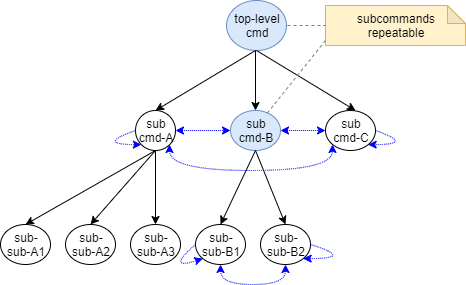
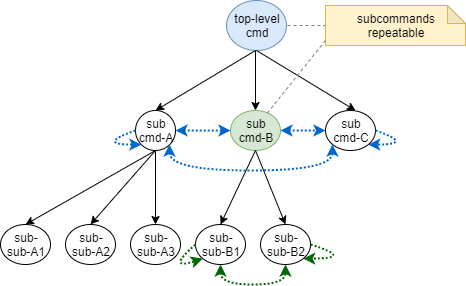
[#454] DOC improved diagram colors

diff --git a/RELEASE-NOTES.md b/RELEASE-NOTES.md
@@ -23,7 +23,7 @@ Picocli follows [semantic versioning](http://semver.org/).
 * [New and noteworthy](#4.2.0-new)
   * [Repeatable Subcommands](#4.2.0-repeatable-subcommands)
   * [Inject `CommandSpec` into a `IVersionProvider`](#4.2.0-versionprovider-with-spec)
-  * [Lazily instantiate subcommands](#4.2.0-lazy-instantiation)
+  * [Subcommands are now lazily instantiated](#4.2.0-lazy-instantiation)
   * [Mixins with `@ParentCommand`-annotated fields](#4.2.0-mixins)
   * [Showing `@filename` in usage help](#4.2.0-atfiles-usage)
 * [Fixed issues](#4.2.0-fixes)
@@ -74,7 +74,7 @@ This invocation is valid because `myapp` is marked with `subcommandsRepeatable =
 #### Repeatable Subcommands Specification
 
 Normally, `subcommandsRepeatable` is `false`, so for each command, only one of its subcommands can be specified, potentially followed by only one sub-subcommand of that subcommand, etc.
-In mathematical terms, a valid sequence of commands and subcommands can be represented by a _directed rooted tree_ that starts at the top-level command, illustrated by the diagram below.
+In mathematical terms, a valid sequence of commands and subcommands can be represented by a _directed rooted tree_ that starts at the top-level command. This is illustrated by the diagram below.
 
 ![subcommands not repeatable](https://picocli.info/images/subcommands-non-repeatable.png)
 
@@ -83,7 +83,7 @@ Also, a subcommand can be followed by a "sibling" command (another command with 
 
 In mathematical terms, when a parent command has this property, the additional valid sequences of its subcommands form a fully connected subgraph (_a complete digraph_).
 
-The blue dotted arrows in the diagram below illustrate the additional sequences that are allowed when a command has repeatable subcommands.
+The blue and green dotted arrows in the diagram below illustrate the additional sequences that are allowed when a command has repeatable subcommands.
 
 ![subcommands-repeatable](https://picocli.info/images/subcommands-repeatable.png)
 
@@ -94,6 +94,11 @@ Note that it is not valid to specify a subcommand followed by its parent command
 # invalid: cannot move _up_ the hierarchy
 myapp add -x=item1 -w=0.2 myapp
 ```
+
+### <a name="4.2.0-lazy-instantiation"></a> Subcommands are now lazily instantiated
+
+From this release,  subcommands are not instantiated until they are matched on the command line,
+unless the user object has a `@Spec` or `@ParentObject`-annotated field; these are instantiated during initialization.
 
 
 ### <a name="4.2.0-versionprovider-with-spec"></a> Injecting `CommandSpec` Into a `IVersionProvider`
@@ -114,11 +119,6 @@ class MyVersionProvider implements IVersionProvider {
     }
 }
 ```
-
-### <a name="4.2.0-lazy-instantiation"></a> Lazily instantiate subcommands
-
-From this release,  subcommands are not instantiated until they are matched on the command line,
-unless the user object has a `@Spec` or `@ParentObject`-annotated field; these are instantiated during initialization.
 
 ### <a name="4.2.0-mixins"></a> Mixins with `@ParentCommand`-annotated fields
 
